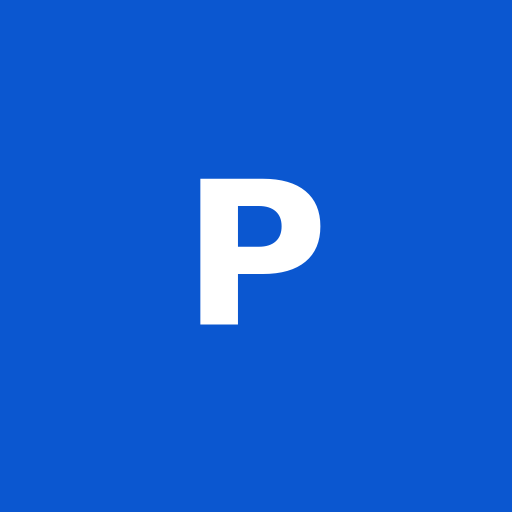
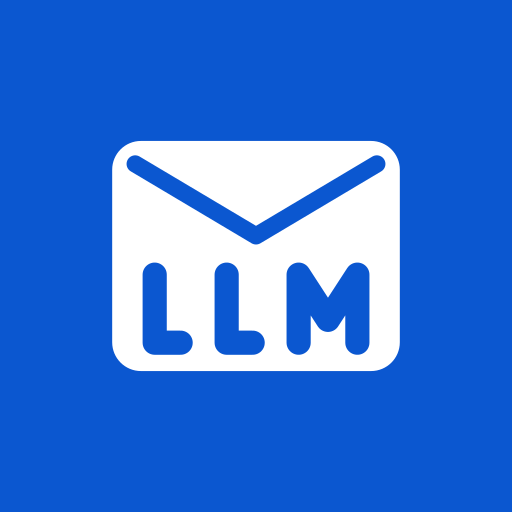
Symbol: LLM und Brief für Android-App und Web-App (Variante 1)
Umschlag mit ausgespartem LLM, gewählt aus fünf Varianten. Quelle ist
tools/symbol.svg, make symbole erzeugt daraus die Bilder der Web-App
und den Vordergrund der Hülle, der auch die einfarbige Ebene ist. Nach
der Kaltlesung sind die Buchstaben größer, damit LLM bei 48 px lesbar
bleibt.

claude-post: re4y4b done

Claude-Session: https://claude.ai/code/session_01G7FX2Bng3R5r3gTq5G78XE

Changed region(s): [[0.2188, 0.25, 0.7812, 0.75], [0.4688, 0.4688, 0.5312, 0.5]]

diff --git a/android/app/src/test/kotlin/io/github/llm_postoffice/llmpost/SymbolTest.kt b/android/app/src/test/kotlin/io/github/llm_postoffice/llmpost/SymbolTest.kt
@@ -2,12 +2,29 @@ package io.github.llm_postoffice.llmpost
 
 import java.io.File
 import org.junit.Assert.assertArrayEquals
+import org.junit.Assert.assertEquals
+import org.junit.Assert.assertTrue
 import org.junit.Test
 
-/** Das Symbol der Hülle ist eine Kopie des Symbols der Web-App. */
+/** Das Symbol der Hülle: Quelle tools/symbol.svg, Bilder aus make symbole. */
 class SymbolTest {
-    @Test fun vordergrundIstDasMaskierbareSymbol() = assertArrayEquals(
-        File("../../symbole/maskierbar-512.png").readBytes(),
-        File("src/main/res/drawable-nodpi/symbol_vorne.png").readBytes(),
-    )
+    private fun ganzzahl(b: ByteArray, ab: Int) =
+        (0 until 4).fold(0) { n, i -> (n shl 8) or (b[ab + i].toInt() and 0xff) }
+
+    @Test fun vordergrundIstEinPngMit432Pixeln() {
+        val b = File("src/main/res/drawable-nodpi/symbol_vorne.png").readBytes()
+        val signatur = byteArrayOf(0x89.toByte(), 0x50, 0x4E, 0x47, 0x0D, 0x0A, 0x1A, 0x0A)
+        assertArrayEquals(signatur, b.copyOfRange(0, 8))
+        assertEquals(432, ganzzahl(b, 16))
+        assertEquals(432, ganzzahl(b, 20))
+    }
+
+    @Test fun adaptivesSymbolHatDreiEbenen() {
+        val xml = File("src/main/res/mipmap-anydpi/symbol.xml").readText()
+        for (ebene in listOf(
+            "<background android:drawable=\"@color/symbol\"",
+            "<foreground android:drawable=\"@drawable/symbol_vorne\"",
+            "<monochrome android:drawable=\"@drawable/symbol_vorne\"",
+        )) assertTrue(ebene, xml.contains(ebene))
+    }
 }

diff --git a/CLAUDE.md b/CLAUDE.md
@@ -60,7 +60,7 @@ arbeitet offline mit einer Warteschlange.
 - Der Renderer meldet in der Größe 448 × 923 (Ränder 0) „Ränder“ für jeden Text, der über den unteren Rand des Fensters
   hinausreicht, also für jede Seite, die scrollt (die Prüfung zählt dort einen Streifen der Höhe 0, den keine Leiste
   verdecken kann). Das ist ein Fehler des Renderers, nicht der App; die Meldung wird nicht umgedeutet.
-- Android-Hülle (`android/`, Kotlin ohne Compose): eine Activity (`HauptActivity`) mit einer WebView, die die Web-App aus den Assets zeigt (`WebViewAssetLoader`, Herkunft `https://appassets.androidplatform.net`, Pfad `/assets/web/`). Einzige Bibliothek ist `androidx.webkit`, Tests mit JUnit 4 unter `android/app/src/test/`. Die Aufgabe `webDateien` in `android/app/build.gradle.kts` kopiert dieselben Dateien wie `DATEIEN` in `sw.js`; `versionName` ist die Fassung aus `js/version.js`, `versionCode` dieselbe Zahl ohne Punkt. Werkzeuge liegen nach XDG (Android-SDK unter `$XDG_DATA_HOME/android-sdk`, von Hand installiert, die Kommandozeile `android` nur mit `--no-metrics`; Gradle und das JDK 17 für den Bau unter `$XDG_DATA_HOME/gradle`; `ANDROID_USER_HOME` ist `$XDG_DATA_HOME/android`; das Makefile setzt alle drei), nichts in `~` direkt, kein `~/Android`. Fehlende Plattformen und Build-Tools lädt Gradle selbst; jede weitere Installation am SDK nur nach Rückfrage. Gates der Hülle: `make apk-test` und `make apk`; sie gehören nicht zu `make check`. Bau und Werkzeuge: `docs/entwicklung/huelle.md`. Die Kotlin-Seite der Brücke steht in `HauptActivity.kt` (`addWebMessageListener`, Objekt `llmpost`, nur Hauptframe und Herkunft der Assets, nie `addJavascriptInterface`), das Lesen der Intents rein in `Ziel.kt` (`ZielTest`, ohne `org.json`, weil es in JVM-Tests nur ein Stummel ist), das Token in `Tresor.kt` (Android Keystore, Datei in `noBackupFilesDir`). Kein Emulator: Brücke, Keystore und Intents prüft der Test auf dem Handy. Releases der Hülle: ein Tag `YYYYMMDD.NN` startet `.github/workflows/huelle.yml` (Tag gleich `js/version.js`, Signatur aus den Secrets `SIGNATUR_P12` und `SIGNATUR_PASSWORT`, `llm-post-TAG.apk` am Release); den Tag pusht der Nutzer. Der Signierschlüssel liegt nur unter `$XDG_DATA_HOME/llm-post/signatur/` (`make signatur`, `make apk-release`), nie im Repo, nie in Ausgaben oder Logs.
+- Android-Hülle (`android/`, Kotlin ohne Compose): eine Activity (`HauptActivity`) mit einer WebView, die die Web-App aus den Assets zeigt (`WebViewAssetLoader`, Herkunft `https://appassets.androidplatform.net`, Pfad `/assets/web/`). Einzige Bibliothek ist `androidx.webkit`, Tests mit JUnit 4 unter `android/app/src/test/`. Die Aufgabe `webDateien` in `android/app/build.gradle.kts` kopiert dieselben Dateien wie `DATEIEN` in `sw.js`; `versionName` ist die Fassung aus `js/version.js`, `versionCode` dieselbe Zahl ohne Punkt. Werkzeuge liegen nach XDG (Android-SDK unter `$XDG_DATA_HOME/android-sdk`, von Hand installiert, die Kommandozeile `android` nur mit `--no-metrics`; Gradle und das JDK 17 für den Bau unter `$XDG_DATA_HOME/gradle`; `ANDROID_USER_HOME` ist `$XDG_DATA_HOME/android`; das Makefile setzt alle drei), nichts in `~` direkt, kein `~/Android`. Fehlende Plattformen und Build-Tools lädt Gradle selbst; jede weitere Installation am SDK nur nach Rückfrage. Gates der Hülle: `make apk-test` und `make apk`; sie gehören nicht zu `make check`. Bau und Werkzeuge: `docs/entwicklung/huelle.md`. Die Kotlin-Seite der Brücke steht in `HauptActivity.kt` (`addWebMessageListener`, Objekt `llmpost`, nur Hauptframe und Herkunft der Assets, nie `addJavascriptInterface`), das Lesen der Intents rein in `Ziel.kt` (`ZielTest`, ohne `org.json`, weil es in JVM-Tests nur ein Stummel ist), das Token in `Tresor.kt` (Android Keystore, Datei in `noBackupFilesDir`). Kein Emulator: Brücke, Keystore und Intents prüft der Test auf dem Handy. Releases der Hülle: ein Tag `YYYYMMDD.NN` startet `.github/workflows/huelle.yml` (Tag gleich `js/version.js`, Signatur aus den Secrets `SIGNATUR_P12` und `SIGNATUR_PASSWORT`, `llm-post-TAG.apk` am Release); den Tag pusht der Nutzer. Der Signierschlüssel liegt nur unter `$XDG_DATA_HOME/llm-post/signatur/` (`make signatur`, `make apk-release`), nie im Repo, nie in Ausgaben oder Logs. Das Symbol von App und Hülle hat eine Quelle, `tools/symbol.svg`; `make symbole` erzeugt `symbole/*.png` und den Vordergrund der Hülle, nach einer Änderung an der Quelle beides committen (`tests/symbol.test.mjs`, `SymbolTest`).
 - Gates: `make check` (Tests, Prüfung auf Fremdhosts, gitleaks, Rendern aller Zustände mit `rendern-mobil.mjs` aus dem
   p94-hig-Klon, Wegetest). Pfad des Klons: `make check HIG=PFAD`.
 - Lizenz GPL-3.0-or-later. Version `YYYYMMDD.NN` steht gleich in `js/version.js`, `sw.js` und der obersten

diff --git a/docs/entwicklung/ansichten/symbol/kaltlesen.md b/docs/entwicklung/ansichten/symbol/kaltlesen.md
@@ -1,0 +1,35 @@
+# Kaltlesung: Symbol
+
+- Datum: 2026-11-17
+- Variante: 1, Umschlag mit LLM (gewählt in der Frage hpqve5)
+- Bilder: `variante-1.png` (Bogen), `symbole/symbol-192.png`, `symbole/maskierbar-512.png`
+- Aufgaben: LLM-Post auf dem Startbildschirm, in Obtainium und im Browser-Tab schnell finden und von ntfy und
+  anderen Apps unterscheiden; es klein (48 px) und als einfarbiges Themen-Symbol wiedererkennen.
+
+## Bericht
+
+Verhindert eine Aufgabe: nichts.
+
+Bremst:
+
+- Bogen, 48 px hell und dunkel: „LLM“ ist nur etwa 5 bis 6 px hoch bei etwa 2 px Strich und läuft zusammen; übrig
+  bleibt ein Umschlag wie bei jeder Mail-App. Vorschlag: Buchstaben höher und fetter, Klappe dünner und flacher.
+- Bogen, Themen-Symbol: „LLM“ und Klappe sind Aussparungen; bei 48 px nicht gezeigt, die Lesbarkeit dort ist
+  ungeprüft. Gleicher Vorschlag.
+- Abgrenzung zu ntfy: Blau trennt, kein Befund.
+
+Sieht falsch aus:
+
+- Bogen, rund hell und dunkel: Die Ecken des Umschlags liegen nahe am Kreisrand und wirken gedrängt.
+- `maskierbar-512.png`: Der Umschlag füllt 56 % der Breite, im runden Symbol der Hülle 70 %; rund maskiert wirkt
+  das Symbol der Web-App kleiner.
+- `symbol-192.png`: nichts, „LLM“ ist lesbar.
+
+## Geändert
+
+- Buchstaben 30 % größer (Höhe 11,8 statt 9,1 von 40 Einheiten des Umschlags), Strich 4,2 statt 3,4.
+- Klappe flacher (Spitze bei 50,5 statt 53) und dünner (Strich 3,0 statt 3,5), damit Platz für die Buchstaben bleibt.
+- Danach `make symbole`. Bei 48 px ist „LLM“ jetzt als drei Buchstaben lesbar; das gilt auch für das Themen-Symbol,
+  das dieselbe Form nutzt.
+- Nicht geändert: die Größe des Umschlags im runden und im maskierbaren Symbol. Das sieht nur anders aus, als es
+  könnte, und bremst keine Aufgabe; der Bogen der Wahl zeigt das Motiv in dieser Größe.

diff --git a/docs/entwicklung/huelle.md b/docs/entwicklung/huelle.md
@@ -37,8 +37,9 @@ Ohne `XDG_DATA_HOME` gilt `~/.local/share`. Jede Variable lässt sich beim Aufru
   Assets unter `web/`.
 - `HauptActivity.kt`: lädt `https://appassets.androidplatform.net/assets/web/index.html` über `WebViewAssetLoader`.
   Links nach draußen öffnet der Browser. Zurück geht durch den Verlauf der App und verlässt sie ganz oben.
-- Das Symbol `res/drawable-nodpi/symbol_vorne.png` ist eine Kopie von `symbole/maskierbar-512.png`; `SymbolTest`
-  hält beide gleich.
+- Das Symbol: Quelle `tools/symbol.svg` (Buchstaben als Striche, keine Schrift). `make symbole` erzeugt daraus
+  `symbole/*.png` und `res/drawable-nodpi/symbol_vorne.png` (Vordergrund und einfarbige Ebene der Android-App) und
+  braucht `rsvg-convert` aus librsvg. Varianten und Wahl: `docs/entwicklung/ansichten/symbol/`.
 
 ## Brücke zur Web-App
 
